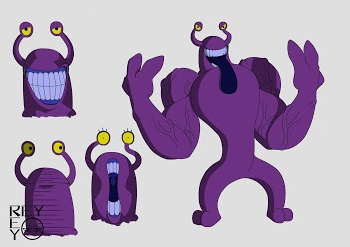
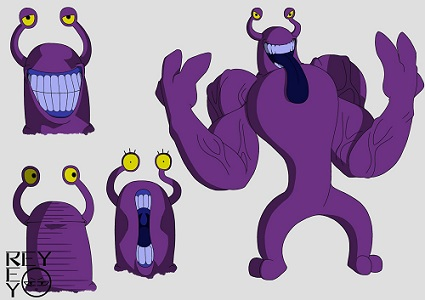
20181124 Resize characters

diff --git a/CharacterDesign.html b/CharacterDesign.html
@@ -20,15 +20,20 @@
    <TD><div class="picContainer" style="height:250; background-size: 350px 247px; background-image:url('images/CharacterDesign/Bar Characters 4 small.jpg');"></div></TD>
    <TD><div class="picContainer" style="height:250; background-size: 350px 247px; background-image:url('images/CharacterDesign/Bar Characters 1 small.jpg');"></div></TD>
    <TD><div class="picContainer" style="height:250; background-size: 350px 247px; background-image:url('images/CharacterDesign/Bar Characters Background 1 small.jpg');"></div></TD>
-  </TR>  <TR>
-   <TD><div class="picContainer" style="background-image:url('images/CharacterDesign/Hunter the Slothman Small.jpg');"></div></TD>
+  </TR>
+ </TABLE>
+ <TABLE>
+  <TR>
+   <TD><div class="picContainer" style="width:425px; background-size: 425px 300px; background-image:url('images/CharacterDesign/Hunter the Slothman Small.jpg');"></div></TD>
    <TD>
-    <div class="picContainer" style="background-size: 495px 350px; background-position: center top; background-image:url('images/CharacterDesign/SPIN-AROUND!.gif');">
-     <div class="picContainer" style="opacity: 0.5; background-size: 75px 75px; background-position: center 137px; background-image:url('images/ReyRey LOGO.png');">
+    <div class="picContainer" style="width:200px; background-size: 495px 350px; background-position: center top; background-image:url('images/CharacterDesign/SPIN-AROUND!.gif');">
+     <div class="picContainer" style="width:200px; opacity: 0.5; background-size: 75px 75px; background-position: center 137px; background-image:url('images/ReyRey LOGO.png');">
     </div>
    </TD>
-   <TD><div class="picContainer" style="background-image:url('images/CharacterDesign/Kai the Slugman.jpg');"></div></TD>
+   <TD><div class="picContainer" style="width:425px; background-size: 425px 300px; background-image:url('images/CharacterDesign/Kai the Slugman.jpg');"></div></TD>
   </TR>
+ </TABLE>
+ <TABLE>
   <TR>
    <TD><div class="picContainer" style="background-size: 350px 240px; background-image:url('images/CharacterDesign/design2.png');"></div></TD>
    <TD>
